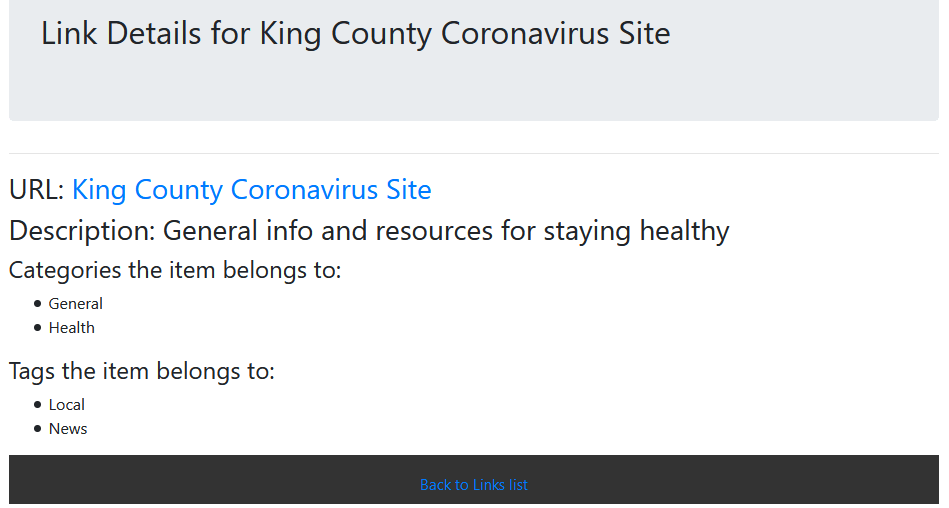
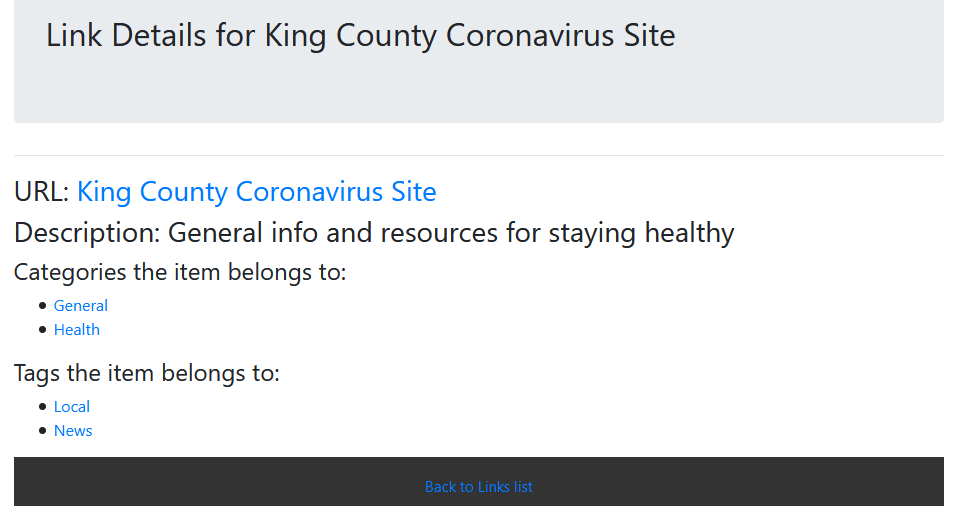
Add links to details pages for categories, tags, and links, edit README

diff --git a/README.md b/README.md
@@ -51,6 +51,8 @@ This application allows someone to be able to add and share resources that are i
 
 ##### Parking Lot
 - Create link entries w/ multiple tags/categories from checkboxes
+- View link list by category or by tag
+- Search 
  -->
 
 ## Setup/Installation Requirements
